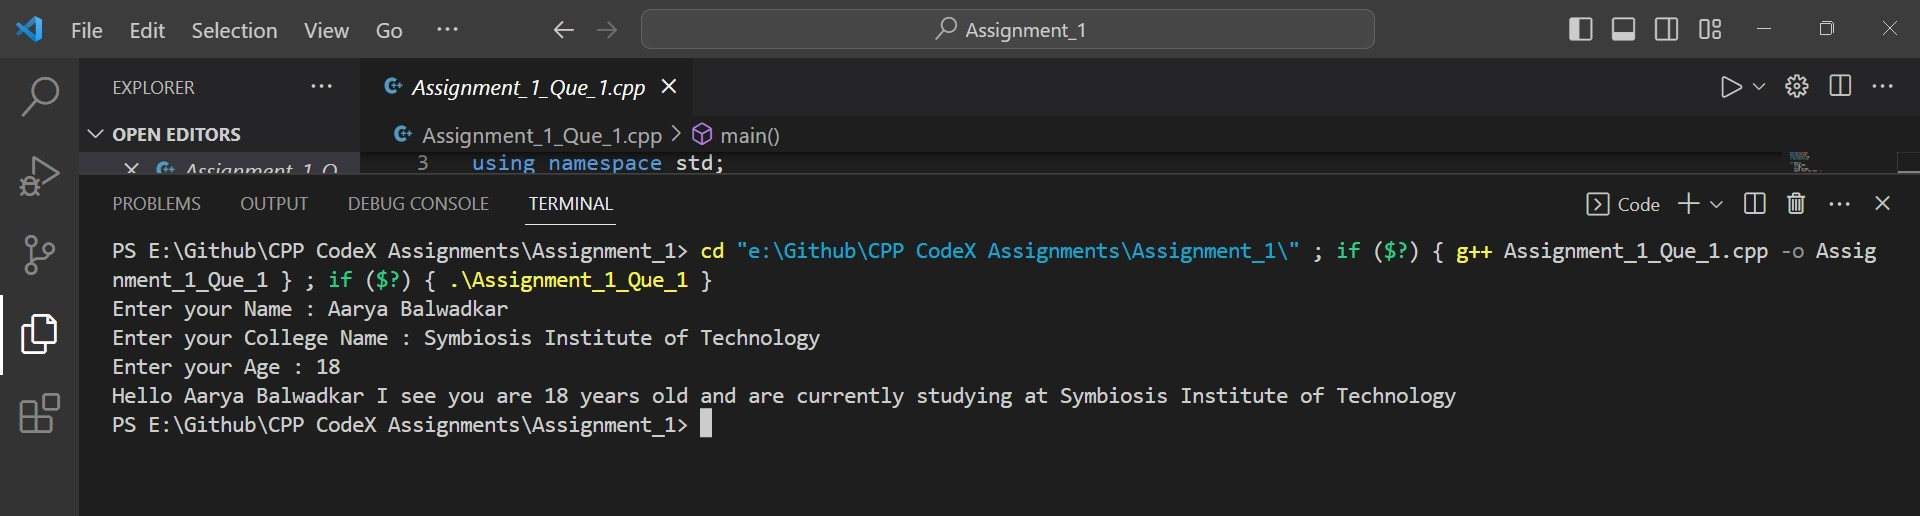
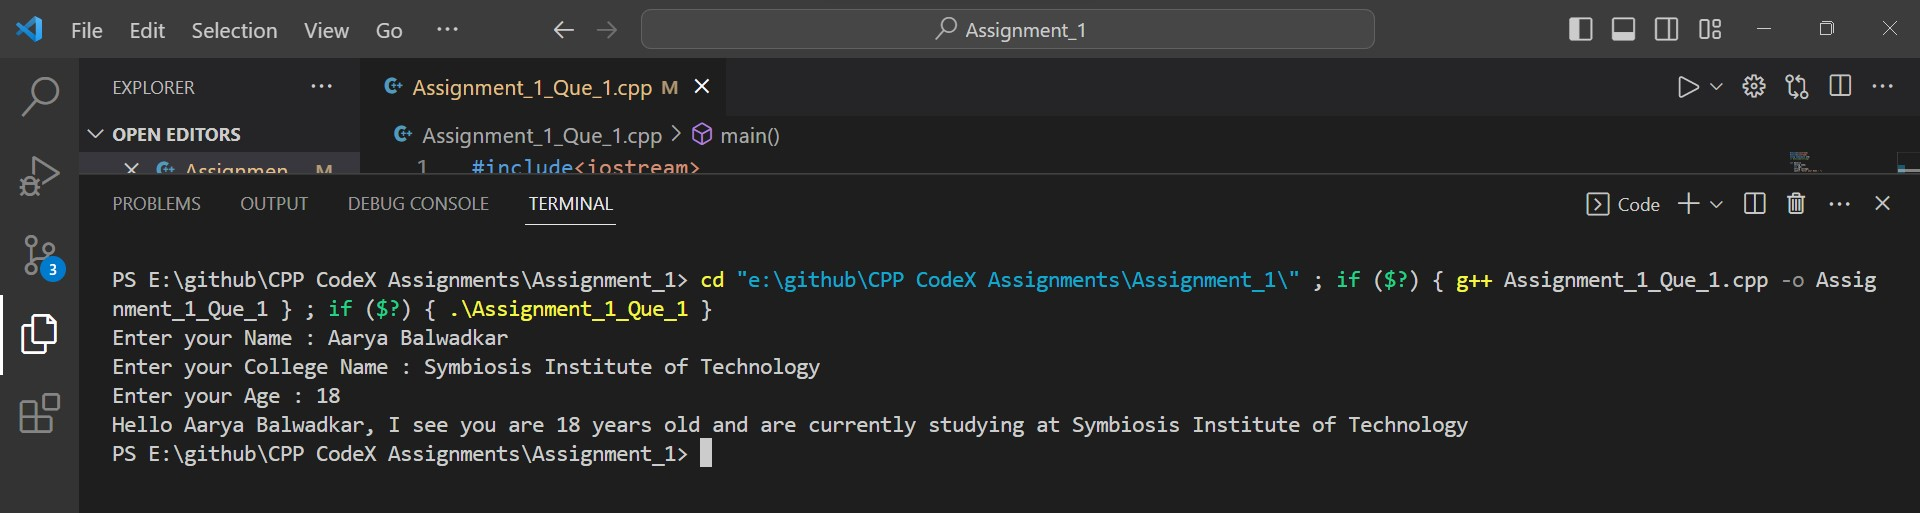
Initial commit

diff --git a/Assignment_1_Que_4.cpp b/Assignment_1_Que_4.cpp
@@ -1,40 +1,48 @@
 #include <iostream>
+#include <cmath>
 using namespace std;
 
-int main(){
+int main()
+{
     float num1, num2, i;
     char sign;
-    cout<<"                    Calculator"<<endl;
-    cout<<endl;
-    cout<<"                    +   |   -"<<endl;
-    cout<<"                    *   |   /"<<endl;
-    cout<<endl;
+    cout << "                    Calculator" << endl;
+    cout << endl;
+    cout << "                    +   |   -" << endl;
+    cout << "                    *   |   /" << endl;
+    cout << endl;
+
+    cout << "Enter number : ";
+    cin >> num1;
+
+    cout << "Enter SIGN of the operation which you have to perform : ";
+    cin >> sign;
+
+    cout << "Enter number : ";
+    cin >> num2;
+
+    num1=abs(num1);
+    num2=abs(num2);
     
-    cout<<"Enter number : ";
-    cin>>num1;
-
-    cout<<"Enter SIGN of the operation which you have to perform : ";
-    cin>>sign;
-    
-
-    cout<<"Enter number : ";
-    cin>>num2;
-
-    if (sign=='+'){
-        cout<<"                Value = ";
-        i=num1+num2;
-    } 
-    if (sign=='-'){
-        cout<<"                Value = ";
-        i=num1-num2;
+    if (sign == '+')
+    {
+        cout << "                Value = ";
+        i = num1 + num2;
     }
-    if(sign=='*'){
-        cout<<"                Value = ";
-        i=num1*num2;
+    if (sign == '-')
+    {
+        cout << "                Value = ";
+        i = num1 - num2;
     }
-    if(sign=='/'){
-        cout<<"                Value = ";
-        i=num1/num2;
+    if (sign == '*')
+    {
+        cout << "                Value = ";
+        i = num1 * num2;
     }
-    cout<<i;
+    if (sign == '/')
+    {
+        cout << "                Value = ";
+        i = num1 / num2;
+    }
+    cout << i;
 }

diff --git a/Assignment_1_Que_1.cpp b/Assignment_1_Que_1.cpp
@@ -16,6 +16,6 @@ int main(){
     cout<< "Enter your Age : ";
     cin>>age;
 
-    cout<<"Hello "<<name<<" I see you are "<<age<<" years old and are currently studying at "<<college<<endl;
+    cout<<"Hello "<<name<<", I see you are "<<age<<" years old and are currently studying at "<<college<<endl;
     return 0;
 }
